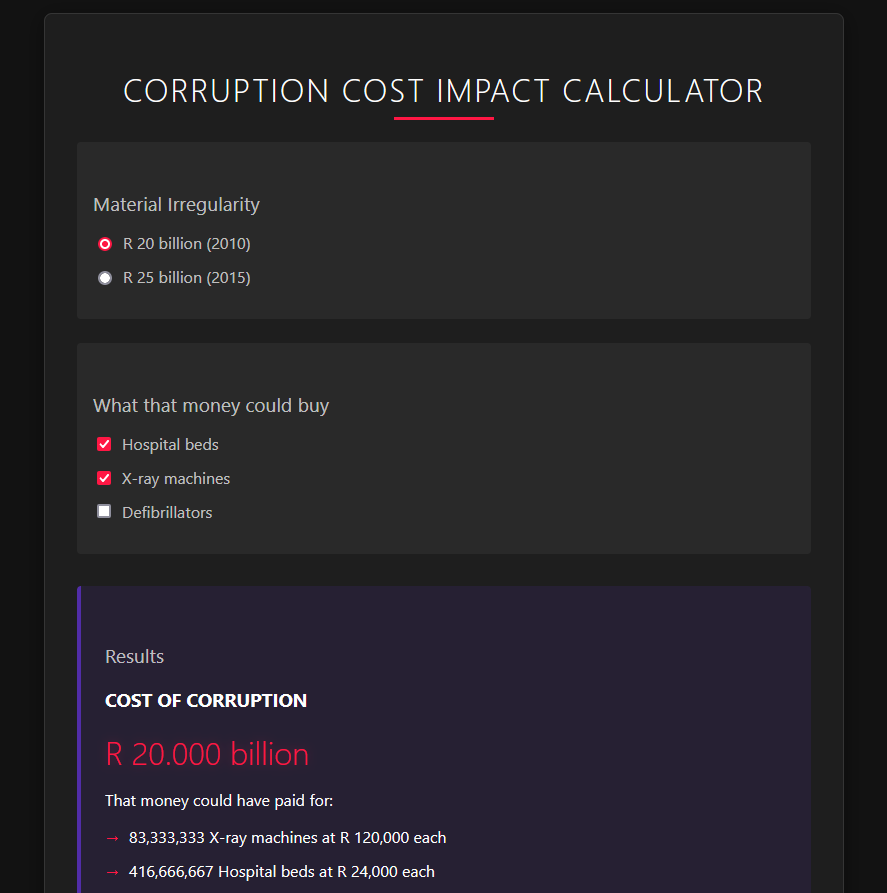
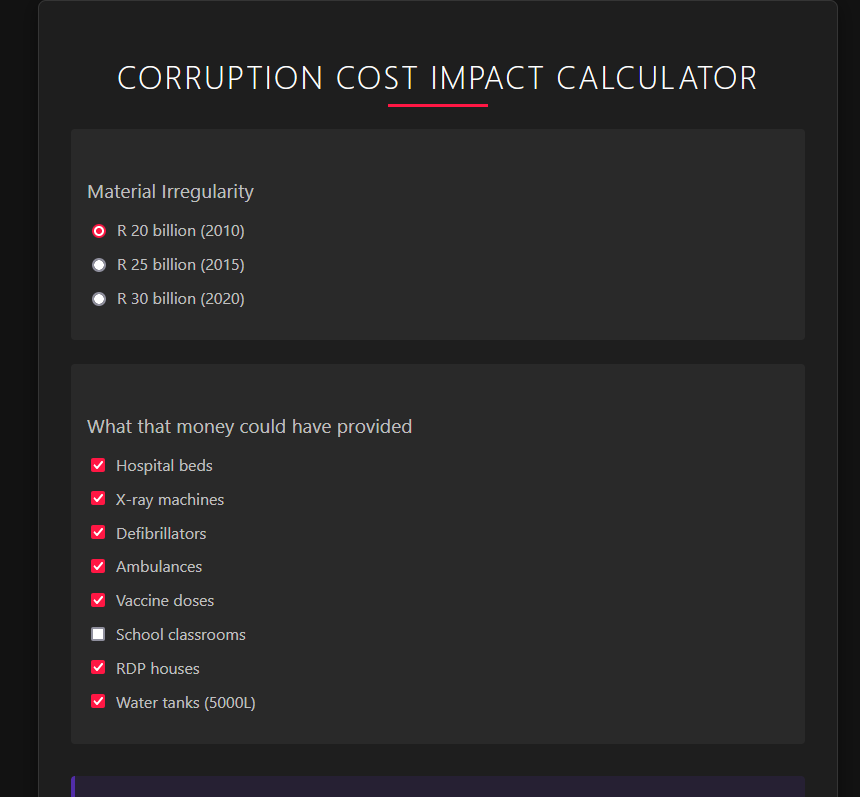
update dark

diff --git a/plain-js-apps/dark.html b/plain-js-apps/dark.html
@@ -128,22 +128,34 @@
       box-shadow: 0 4px 12px rgba(81, 45, 168, 0.6);
     }
 
-    ul {
-      list-style-type: none;
-      padding: 0;
+    table {
+      width: 100%;
+      border-collapse: collapse;
+      margin: 1rem 0;
+      background: rgba(255, 255, 255, 0.03);
+      border-radius: 4px;
+      overflow: hidden;
     }
 
-    li {
-      margin: 0.8rem 0;
-      padding-left: 1.5rem;
-      position: relative;
+    th,
+    td {
+      padding: 0.8rem;
+      text-align: left;
+      border-bottom: 1px solid rgba(255, 255, 255, 0.1);
     }
 
-    li::before {
-      content: '→';
-      position: absolute;
-      left: 0;
-      color: var(--secondary);
+    th {
+      background: rgba(81, 45, 168, 0.2);
+      color: var(--text);
+      font-weight: 500;
+    }
+
+    tr:hover {
+      background: rgba(255, 255, 255, 0.05);
+    }
+
+    td:last-child {
+      text-align: right;
     }
   </style>
 </head>
@@ -164,11 +176,15 @@
           <input type="radio" name="amount" value="25">
           R 25 billion (2015)
         </label>
+        <label>
+          <input type="radio" name="amount" value="30">
+          R 30 billion (2020)
+        </label>
       </div>
     </div>
 
     <div class="form-group">
-      <h2>What that money could buy</h2>
+      <h2>What that money could have provided</h2>
       <div class="checkbox-group">
         <label>
           <input type="checkbox" name="items" value="beds" checked>
@@ -182,6 +198,26 @@
           <input type="checkbox" name="items" value="defib">
           Defibrillators
         </label>
+        <label>
+          <input type="checkbox" name="items" value="ambulance">
+          Ambulances
+        </label>
+        <label>
+          <input type="checkbox" name="items" value="vaccine">
+          Vaccine doses
+        </label>
+        <label>
+          <input type="checkbox" name="items" value="school">
+          School classrooms
+        </label>
+        <label>
+          <input type="checkbox" name="items" value="houses">
+          RDP houses
+        </label>
+        <label>
+          <input type="checkbox" name="items" value="water">
+          Water tanks (5000L)
+        </label>
       </div>
     </div>
 
@@ -191,10 +227,27 @@
         <h3>COST OF CORRUPTION</h3>
         <div class="impact-numbers">R 20.000 billion</div>
         <p>That money could have paid for:</p>
-        <ul>
-          <li>83,333,333 X-ray machines at R 120,000 each</li>
-          <li>416,666,667 Hospital beds at R 24,000 each</li>
-        </ul>
+        <table>
+          <thead>
+            <tr>
+              <th>Item</th>
+              <th>Unit Cost</th>
+              <th>Quantity</th>
+            </tr>
+          </thead>
+          <tbody>
+            <tr>
+              <td>Hospital beds</td>
+              <td>R 24,000</td>
+              <td>416,666,667</td>
+            </tr>
+            <tr>
+              <td>X-ray machines</td>
+              <td>R 120,000</td>
+              <td>83,333,333</td>
+            </tr>
+          </tbody>
+        </table>
       </div>
       <button class="share-button" onclick="shareResults()">Share Results</button>
     </div>
@@ -212,22 +265,47 @@
       const costs = {
         beds: 24000,
         xray: 120000,
-        defib: 45000
+        defib: 45000,
+        ambulance: 900000,
+        vaccine: 200,
+        school: 1500000,
+        houses: 180000,
+        water: 5000
       };
 
       let html = `<h3>COST OF CORRUPTION</h3>
               <div class="impact-numbers">R ${(amount / 1000000000).toFixed(3)} billion</div>
-              <p>That money could have paid for:</p><ul>`;
+              <p>That money could have paid for:</p>
+              <table>
+                <thead>
+                  <tr>
+                    <th>Item</th>
+                    <th>Unit Cost</th>
+                    <th>Quantity</th>
+                  </tr>
+                </thead>
+                <tbody>`;
 
       items.forEach(item => {
         const quantity = Math.floor(amount / (costs[item] * items.length));
-        const itemName = item === 'beds' ? 'Hospital beds' :
-          item === 'xray' ? 'X-ray machines' :
-            'Defibrillators';
-        html += `<li>${quantity.toLocaleString()} ${itemName} at R ${costs[item].toLocaleString()} each</li>`;
+        const itemName = {
+          'beds': 'Hospital beds',
+          'xray': 'X-ray machines',
+          'defib': 'Defibrillators',
+          'ambulance': 'Fully equipped ambulances',
+          'vaccine': 'COVID-19 vaccine doses',
+          'school': 'School classrooms',
+          'houses': 'RDP houses',
+          'water': 'Water tanks (5000L)'
+        }[item];
+        html += `<tr>
+              <td>${itemName}</td>
+              <td>R ${costs[item].toLocaleString()}</td>
+              <td>${quantity.toLocaleString()}</td>
+            </tr>`;
       });
 
-      html += '</ul>';
+      html += '</tbody></table>';
       document.getElementById('impact-display').innerHTML = html;
     }
 
@@ -243,6 +321,9 @@
         alert('Share functionality not supported by your browser. Copy the results manually.');
       }
     }
+
+    // Initialize calculation on page load
+    calculateImpact();
   </script>
 
 </body>

diff --git a/README.md b/README.md
@@ -24,9 +24,13 @@ Downloaded from https://websim.ai/p/j1sd4xzlvyqtgin1m1pl/1
 
 ### Dark style
 
-![dark](dark.png)
+Dark theme, more professional look, and extended with more inputs and with table for output:
+
 
 Downloaded from https://websim.ai/@MichaelPythonDev/corruption-cost-impact-calculator
+
+
+
 
 
 ## Documentation
